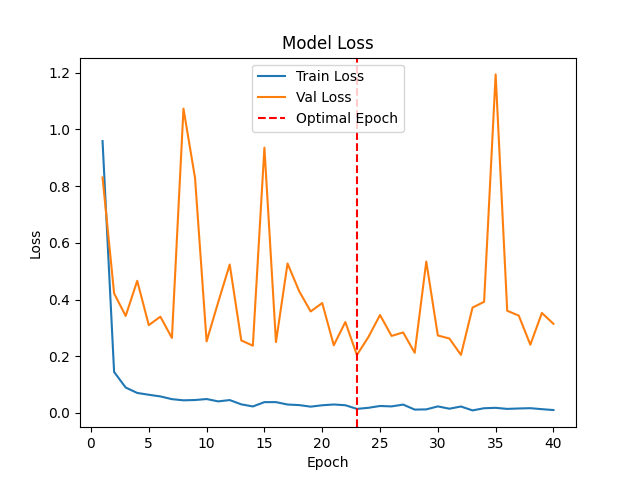
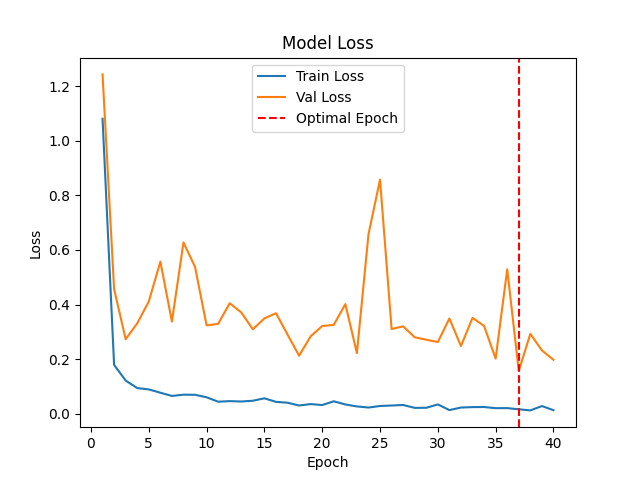
changes for consistency in architecture, reran training and testing

diff --git a/main.py b/main.py
@@ -44,10 +44,10 @@ val_generator = test_datagen.flow_from_directory(
 #     classes=num_classes,
 #     attention_module='cbam_block'
 # )
-#
+
 # x = base_model.output
 # predictions = Dense(num_classes, activation='softmax')(x)
-#
+
 # model = Model(inputs=base_model.input, outputs=predictions)
 
 # End of DenseNet
@@ -87,19 +87,7 @@ history = model.fit(
     callbacks=[checkpoint]
 )
 
-train_loss = history.history['loss']
 val_loss = history.history['val_loss']
-epochs_range = range(1, len(train_loss) + 1)
-
-plt.plot(epochs_range, train_loss, label='Train Loss')
-plt.plot(epochs_range, val_loss, label='Val Loss')
-plt.title('Model Loss')
-plt.xlabel('Epoch')
-plt.ylabel('Loss')
-plt.axvline(epochs_range[val_loss.index(min(val_loss))], color='r', linestyle='--', label='Optimal Epoch')
-plt.legend()
-plt.savefig('resnet_cbam.png')
-plt.show()
 
 optimal_epoch = val_loss.index(min(val_loss)) + 1
 
@@ -120,3 +108,16 @@ model.load_weights('resnet_cbam.keras')
 optimal_score = model.evaluate(test_generator, verbose=0)
 print(f'Test loss at optimal epoch ({optimal_epoch}):', optimal_score[0])
 print(f'Test accuracy at optimal epoch ({optimal_epoch}):', optimal_score[1])
+
+train_loss = history.history['loss']
+epochs_range = range(1, len(train_loss) + 1)
+
+plt.plot(epochs_range, train_loss, label='Train Loss')
+plt.plot(epochs_range, val_loss, label='Val Loss')
+plt.title('Model Loss')
+plt.xlabel('Epoch')
+plt.ylabel('Loss')
+plt.axvline(epochs_range[val_loss.index(min(val_loss))], color='r', linestyle='--', label='Optimal Epoch')
+plt.legend()
+plt.savefig('resnet_cbam.png')
+plt.show()

diff --git a/resnet.py b/resnet.py
@@ -248,7 +248,7 @@ def stack_residual_blocks_v1(x, filters, blocks, stride1=2, name=None, attention
         x = residual_block_v1(
             x, filters, conv_shortcut=False, name=name + "_block" + str(i)
         )
-        if i == 3 and attention_module is not None:
+        if i % 3 == 0 and attention_module is not None:
             x = attach_attention_module(x, attention_module)
     return x
 

diff --git a/densenet.py b/densenet.py
@@ -23,8 +23,10 @@ def dense_block(x, blocks, name, attention_module=None):
     """
     for i in range(blocks):
         x = conv_block(x, 32, name=name + "_block" + str(i + 1))
-        if attention_module:
-            x = attach_attention_module(x, attention_module)
+
+    if attention_module:
+        x = attach_attention_module(x, attention_module)
+
     return x
 
 
